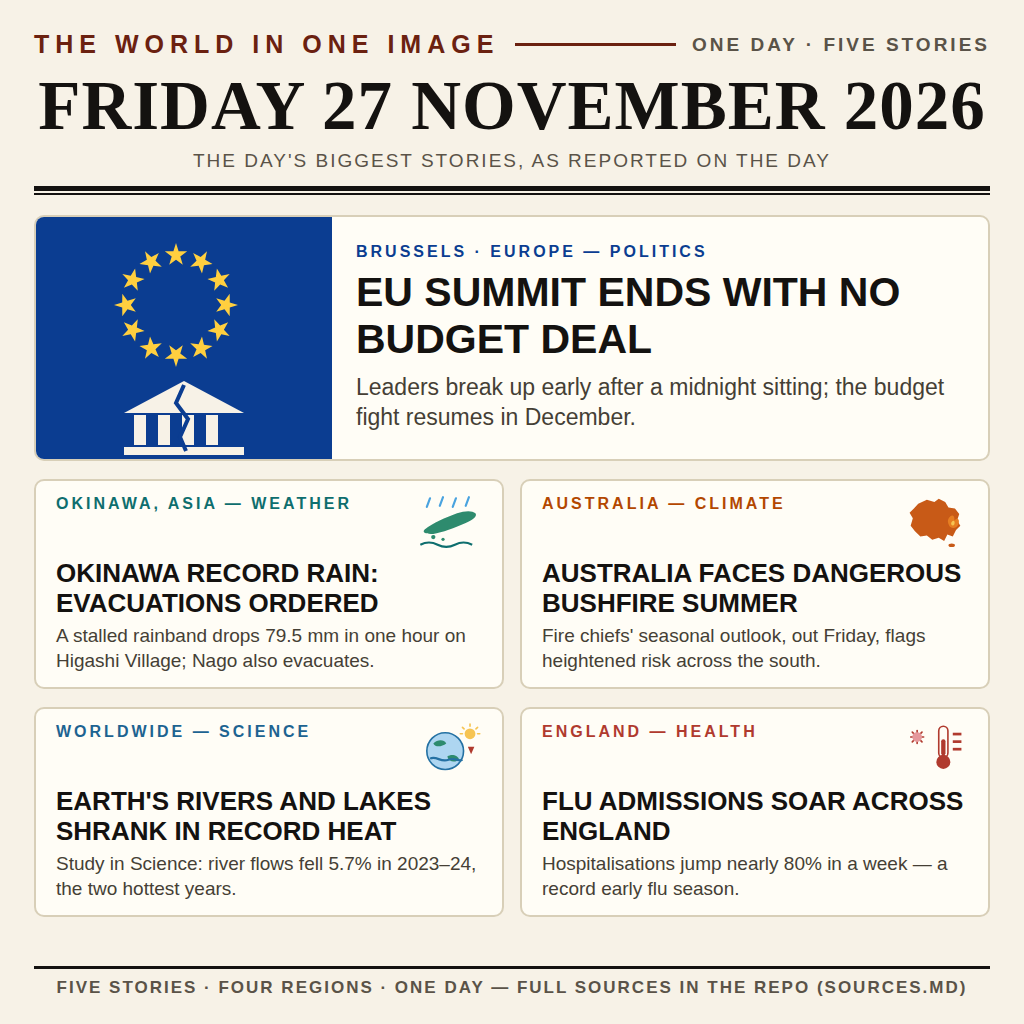
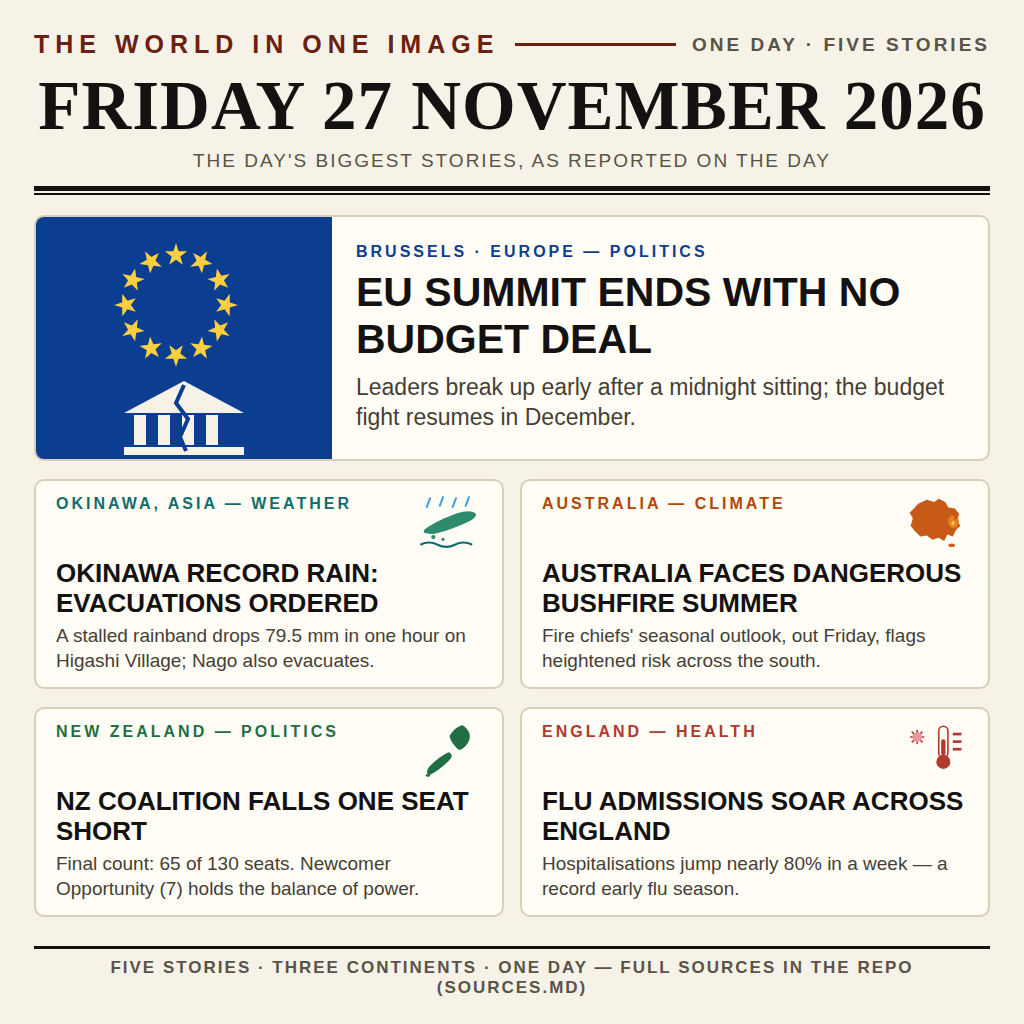
Swap tile 4: NZ final count replaces the rivers study

Changed region(s): [[0.0312, 0.6875, 0.4688, 0.875], [0.0312, 0.9375, 0.9688, 0.9688], [0.0625, 0.6875, 0.3125, 0.7188]]

diff --git a/poster.html b/poster.html
@@ -52,7 +52,7 @@
 
   .c-okinawa .tag { color: #0e6e6e; }
   .c-australia .tag { color: #b34700; }
-  .c-science .tag { color: #1d6391; }
+  .c-nz .tag { color: #1f6f43; }
   .c-flu .tag { color: #b03a2e; }
 
   /* ---------- footer ---------- */
@@ -150,26 +150,21 @@
 
   <!-- 4 + 5 -->
   <div class="row">
-    <div class="tile cell c-science">
-      <div class="head"><div class="tag">WORLDWIDE — SCIENCE</div>
+    <div class="tile cell c-nz">
+      <div class="head"><div class="tag">NEW ZEALAND — POLITICS</div>
       <div class="art">
         <svg width="65" height="54" viewBox="0 0 120 100">
-          <circle cx="52" cy="52" r="34" fill="#aed6f1" stroke="#2471a3" stroke-width="3"/>
-          <path d="M30,38 C38,30 50,30 54,38 C46,44 34,46 30,38 Z" fill="#2e8b6e"/>
-          <path d="M56,62 C64,56 76,60 78,68 C70,74 58,72 56,62 Z" fill="#2e8b6e"/>
-          <path d="M24,66 C36,60 44,74 58,68 C70,63 76,72 84,68" fill="none" stroke="#2471a3" stroke-width="4"/>
-          <circle cx="98" cy="20" r="10" fill="#f6c453"/>
-          <g stroke="#f6c453" stroke-width="3" stroke-linecap="round">
-            <line x1="98" y1="2" x2="98" y2="6"/><line x1="84" y1="8" x2="87" y2="11"/>
-            <line x1="112" y1="8" x2="109" y2="11"/><line x1="80" y1="20" x2="84" y2="20"/>
-            <line x1="116" y1="20" x2="112" y2="20"/>
-          </g>
-          <polygon points="94,44 106,44 100,58" fill="#b03a2e"/>
+          <!-- North Island -->
+          <path d="M84,4 C94,10 100,20 97,30 C94,40 86,48 78,50 C70,44 62,34 60,24 C66,14 74,6 84,4 Z" fill="#1f6f43"/>
+          <!-- South Island -->
+          <path d="M58,54 C64,56 66,60 62,66 C50,80 36,90 24,96 C18,96 16,90 22,82 C32,70 46,60 58,54 Z" fill="#1f6f43"/>
+          <!-- Stewart Island -->
+          <ellipse cx="20" cy="97" rx="4" ry="2.4" fill="#1f6f43"/>
         </svg>
       </div>
       </div>
-      <div class="headline">EARTH'S RIVERS AND LAKES SHRANK IN RECORD HEAT</div>
-      <div class="subline">Study in Science: river flows fell 5.7% in 2023–24, the two hottest years.</div>
+      <div class="headline">NZ COALITION FALLS ONE SEAT SHORT</div>
+      <div class="subline">Final count: 65 of 130 seats. Newcomer Opportunity (7) holds the balance of power.</div>
     </div>
 
     <div class="tile cell c-flu">
@@ -200,7 +195,7 @@
   <!-- footer -->
   <div class="footer">
     <div class="rule"></div>
-    <p>FIVE STORIES · FOUR REGIONS · ONE DAY — FULL SOURCES IN THE REPO (SOURCES.MD)</p>
+    <p>FIVE STORIES · THREE CONTINENTS · ONE DAY — FULL SOURCES IN THE REPO (SOURCES.MD)</p>
   </div>
 
 </div>

diff --git a/SOURCES.md b/SOURCES.md
@@ -43,18 +43,25 @@ paper's issue date) were checked and rejected.
   across most of Victoria, eastern Tasmania and large parts of South
   Australia, Western Australia, New South Wales and the Northern Territory.
 
-## 4. Earth's rivers and lakes shrank in record heat — Global · Science
+## 4. NZ coalition falls one seat short in final count — New Zealand, Oceania · Politics
 
-- Headline used: "EARTH'S RIVERS AND LAKES SHRANK IN RECORD HEAT"
-- Outlet: The Guardian — "Water levels fell sharply in world's rivers and
-  lakes in two hottest years on record, study finds"; paper: "Abrupt surface
-  water decline during 2023–2024 record warming", Science,
-  doi 10.1126/science.aei2575 (Zhang, Blöschl et al.).
-- URL: https://dailyfoxnews.com/news/38809/water-levels-fell-sharply-in-world-s-rivers-and-lakes-in-two-hottest-years-on
-- Dateline as shown: Guardian report published 2026-11-26T20:47:34Z, i.e.
-  the morning of Friday 27 November across Asia-Pacific. Global river flow
-  in 2023–24 ran about 5.7% below the long-term average; lake and reservoir
-  storage fell about 9.5% — the sharpest joint decline since at least 1991.
+- Headline used: "NZ COALITION FALLS ONE SEAT SHORT"
+- Outlets: Reuters — "New Zealand's ruling coalition falls just short of
+  majority in final election count"; Associated Press — "Deadlocked final
+  result in New Zealand's election leaves a centrist newcomer as the decider".
+- URLs: https://www.reuters.com/world/asia-pacific/new-zealands-ruling-coalition-falls-just-short-majority-final-election-count-2026-11-27/
+  and https://gmg-kprc-prod.cdn.arcpublishing.com/news/world/2026/11/27/final-count-in-new-zealands-election-gives-neither-right-nor-left-bloc-enough-seats-for-a-majority/
+  (release timing corroborated by Farmers Weekly: results "released at 2pm
+  on Friday").
+- Dateline as shown: the Electoral Commission's official final count was
+  released on Friday 27 November 2026, New Zealand time (~2pm NZT); the AP
+  report is datelined Wellington, Friday, Nov. 27, 2026. The ruling
+  centre-right coalition — National 40, ACT 13, NZ First 12 — totals 65 of
+  130 seats, one short of the 66 needed for a majority; Labour won 36; the
+  first-time entrant Opportunity won 7 seats and holds the balance of power.
+  The final tally includes 484,865 special votes. (This tile replaced the
+  rivers-and-lakes study in the resubmitted version: its 27 November
+  dateline is direct, not timezone-dependent.)
 
 ## 5. Flu admissions soar across England — Europe · Health
 

diff --git a/README.md b/README.md
@@ -4,7 +4,7 @@
 [![rank](https://make.fun/badge/news-image-20261127/zjllansehaiyang/news-in-one-image-20261127/rank.svg)](https://make.fun/bounty/news-image-20261127/leaderboard?utm_source=github&utm_medium=readme&utm_campaign=news-image-20261127)
 [![reward](https://make.fun/badge/news-image-20261127/zjllansehaiyang/news-in-one-image-20261127/reward.svg)](https://make.fun/bounty/news-image-20261127?utm_source=github&utm_medium=readme&utm_campaign=news-image-20261127)
 
-One poster that sums up Friday 27 November 2026: an EU budget summit in Brussels ending without a deal, record rain and evacuation orders in Okinawa, Australia's seasonal outlook warning of a dangerous bushfire summer, a Science study showing the world's rivers and lakes shrank in the record-hot years, and flu admissions soaring across England. Five stories across four regions, drawn as a single 1024×1024 newspaper front page with the date impossible to miss. Every story is documented with its source and dateline in SOURCES.md.
+One poster that sums up Friday 27 November 2026: an EU budget summit in Brussels ending without a deal, record rain and evacuation orders in Okinawa, Australia's seasonal outlook warning of a dangerous bushfire summer, New Zealand's final election count leaving the ruling coalition one seat short of a majority, and flu admissions soaring across England. Five stories across three continents, drawn as a single 1024×1024 newspaper front page with the date impossible to miss. Every story is documented with its source and dateline in SOURCES.md.
 
 ## Run it
 
